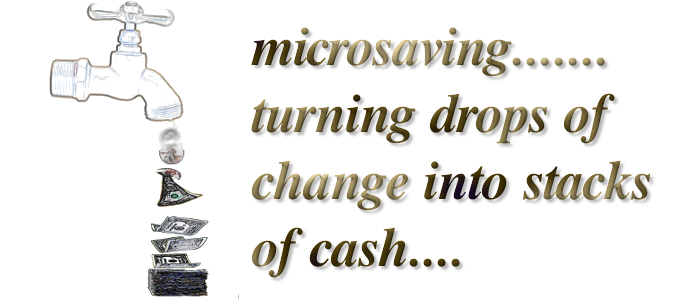
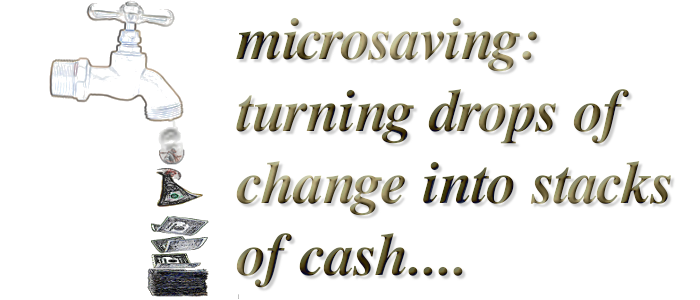
Closer to a soft opening

diff --git a/public/stylesheets/custom.css b/public/stylesheets/custom.css
@@ -155,6 +155,7 @@ logo{
     float:left;
     padding-top:20px;
     width:350px;
+    color:black;
 }
 
 #slideshow{
